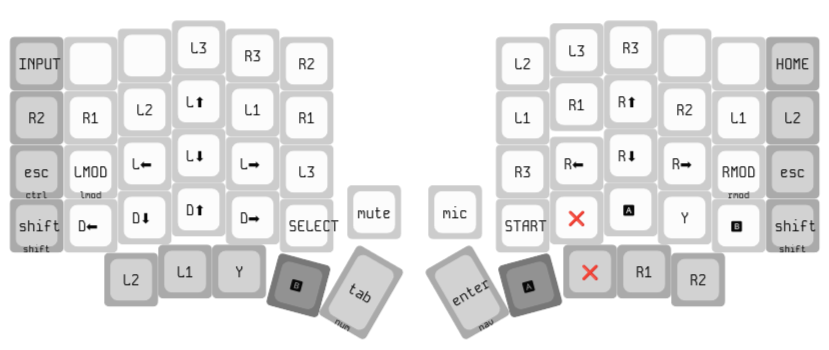
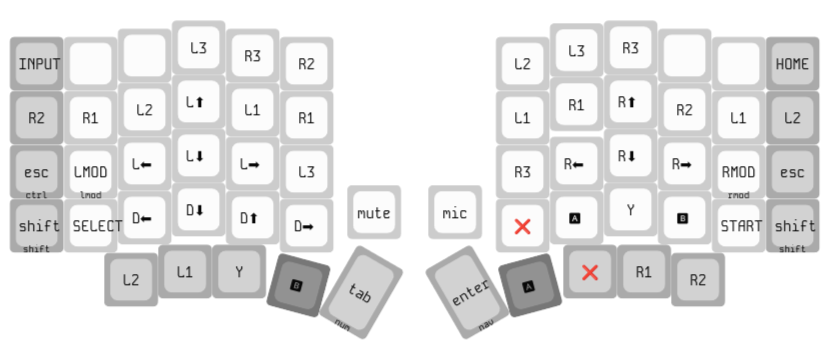
feat: trying a new layout

diff --git a/keymap.c b/keymap.c
@@ -82,7 +82,7 @@ const uint16_t PROGMEM keymaps[][MATRIX_ROWS][MATRIX_COLS] = {
   [_MEDIA] = LAYOUT(XXXXXXX, XXXXXXX, XXXXXXX, XXXXXXX, XXXXXXX, XXXXXXX, XXXXXXX, XXXXXXX, XXXXXXX, XXXXXXX, XXXXXXX, XXXXXXX, XXXXXXX, KC_MEDIA_REWIND, XXXXXXX, XXXXXXX, XXXXXXX, XXXXXXX, XXXXXXX, KC_MEDIA_NEXT_TRACK, XXXXXXX, XXXXXXX, XXXXXXX, XXXXXXX, BASE, XXXXXXX, XXXXXXX, XXXXXXX, XXXXXXX, XXXXXXX, XXXXXXX, KC_MEDIA_PREV_TRACK, XXXXXXX, KC_MEDIA_STOP, KC_MEDIA_NEXT_TRACK, XXXXXXX, LSFT_T(PG_LOCK), XXXXXXX, XXXXXXX, KC_VOLD, KC_VOLU, XXXXXXX, _______, _______, XXXXXXX, XXXXXXX, KC_MUTE, KC_MEDIA_FAST_FORWARD, KC_MEDIA_PREV_TRACK, RSFT_T(PG_LOCK), XXXXXXX, _______, _______, _______, _______, _______, KC_MEDIA_PLAY_PAUSE, _______, _______, XXXXXXX),
   [_SYS] = LAYOUT(XXXXXXX, XXXXXXX, XXXXXXX, XXXXXXX, XXXXXXX, XXXXXXX, XXXXXXX, XXXXXXX, XXXXXXX, XXXXXXX, XXXXXXX, XXXXXXX, XXXXXXX, XXXXXXX, KC_PSCR, XXXXXXX, XXXXXXX, XXXXXXX, XXXXXXX, XXXXXXX, XXXXXXX, KC_WAKE, XXXXXXX, XXXXXXX, BASE, XXXXXXX, XXXXXXX, XXXXXXX, XXXXXXX, XXXXXXX, XXXXXXX, XXXXXXX, XXXXXXX, KC_SLEP, XXXXXXX, XXXXXXX, LSFT_T(PG_LOCK), XXXXXXX, XXXXXXX, KC_BRID, KC_BRIU, XXXXXXX, _______, _______, XXXXXXX, XXXXXXX, XXXXXXX, XXXXXXX, KC_PWR, RSFT_T(PG_LOCK), XXXXXXX, _______, _______, _______, _______, _______, _______, _______, _______, XXXXXXX),
   [_META] = LAYOUT(XXXXXXX, XXXXXXX, XXXXXXX, XXXXXXX, XXXXXXX, XXXXXXX, XXXXXXX, XXXXXXX, XXXXXXX, XXXXXXX, XXXXXXX, XXXXXXX, XXXXXXX, XXXXXXX, XXXXXXX, XXXXXXX, XXXXXXX, XXXXXXX, XXXXXXX, XXXXXXX, XXXXXXX, XXXXXXX, XXXXXXX, XXXXXXX, BASE, KC_CLEAR, XXXXXXX, QK_CLEAR_EEPROM, XXXXXXX, XXXXXXX, XXXXXXX, XXXXXXX, XXXXXXX, XXXXXXX, XXXXXXX, XXXXXXX, LSFT_T(PG_LOCK), XXXXXXX, XXXXXXX, XXXXXXX, XXXXXXX, XXXXXXX, _______, _______, XXXXXXX, QK_REBOOT, QK_MAKE, XXXXXXX, XXXXXXX, RSFT_T(PG_LOCK), XXXXXXX, _______, _______, _______, _______, _______, _______, _______, _______, XXXXXXX),
-  [_🎮PAD] = LAYOUT(JS_17, XXXXXXX, XXXXXXX, JS_L_LOCK, JS_13, JS_11, JS_9, JS_12, JS_13, XXXXXXX, XXXXXXX, JS_16, JS_11, JS_10, JS_9, JS_L_UP, JS_8, JS_10, JS_8, JS_10, JS_R_UP, JS_11, JS_8, JS_9, _______, JS_L_MOD, JS_L_LEFT, JS_L_DOWN, JS_L_RIGHT, JS_12, JS_13, JS_R_LEFT, JS_R_DOWN, JS_R_RIGHT, JS_R_MOD, KC_ESC, KC_LSFT, JS_0, JS_1, JS_2, JS_3, JS_15, _______, _______, JS_14, JS_6, JS_4, JS_7, JS_5, KC_RSFT, JS_9, JS_8, JS_7, JS_5, _______, _______, JS_4, JS_6, JS_10, JS_11),
+  [_🎮PAD] = LAYOUT(JS_17, XXXXXXX, XXXXXXX, JS_L_LOCK, JS_13, JS_11, JS_9, JS_12, JS_13, XXXXXXX, XXXXXXX, JS_16, JS_11, JS_10, JS_9, JS_L_UP, JS_8, JS_10, JS_8, JS_10, JS_R_UP, JS_11, JS_8, JS_9, _______, JS_L_MOD, JS_L_LEFT, JS_L_DOWN, JS_L_RIGHT, JS_12, JS_13, JS_R_LEFT, JS_R_DOWN, JS_R_RIGHT, JS_R_MOD, KC_ESC, KC_LSFT, JS_15, JS_0, JS_1, JS_2, JS_3, _______, _______, JS_6, JS_4, JS_7, JS_5, JS_14, KC_RSFT, JS_9, JS_8, JS_7, JS_5, _______, _______, JS_4, JS_6, JS_10, JS_11),
   [_ARROW] = LAYOUT(XXXXXXX, XXXXXXX, XXXXXXX, XXXXXXX, XXXXXXX, XXXXXXX, XXXXXXX, XXXXXXX, XXXXXXX, XXXXXXX, XXXXXXX, XXXXXXX, XXXXXXX, XXXXXXX, XXXXXXX, KC_UP, XXXXXXX, XXXXXXX, XXXXXXX, XXXXXXX, KC_UP, XXXXXXX, XXXXXXX, XXXXXXX, BASE, XXXXXXX, KC_LEFT, KC_DOWN, KC_RIGHT, XXXXXXX, XXXXXXX, KC_LEFT, KC_DOWN, KC_RIGHT, XXXXXXX, XXXXXXX, LSFT_T(PG_LOCK), XXXXXXX, XXXXXXX, XXXXXXX, XXXXXXX, XXXXXXX, _______, _______, XXXXXXX, XXXXXXX, XXXXXXX, XXXXXXX, XXXXXXX, RSFT_T(PG_LOCK), XXXXXXX, _______, _______, _______, _______, _______, _______, _______, _______, XXXXXXX),
   [_NUM] = LAYOUT(QK_LOCK, XXXXXXX, XXXXXXX, KC_LEFT_ANGLE_BRACKET, KC_RIGHT_ANGLE_BRACKET, KC_AMPERSAND, KC_SEMICOLON, XXXXXXX, XXXXXXX, KC_KP_EQUAL, KC_AT, KC_NUM, XXXXXXX, KC_EXCLAIM, KC_HASH, KC_LEFT_CURLY_BRACE, KC_RIGHT_CURLY_BRACE, KC_GRAVE, KC_COLON, KC_KP_7, KC_KP_8, KC_KP_9, KC_PERCENT, XXXXXXX, QK_CAPS_WORD_TOGGLE, KC_CIRCUMFLEX, KC_PIPE, KC_LEFT_PAREN, KC_RIGHT_PAREN, KC_DOLLAR, KC_KP_MINUS, KC_KP_4, KC_KP_5, KC_KP_6, KC_KP_PLUS, KC_UNDERSCORE, LSFT_T(PG_LOCK), KC_COLON, KC_EQUAL, KC_LEFT_BRACKET, KC_RIGHT_BRACKET, KC_TILDE, _______, _______, KC_KP_ASTERISK, KC_KP_1, KC_KP_2, KC_KP_3, KC_KP_SLASH, RSFT_T(PG_LOCK), QK_BOOT, _______, _______, _______, _______, LT(_NAV, BASE), KC_RSPC, KC_KP_0, KC_KP_DOT, KC_COMMA),
   [_NAV] = LAYOUT(KC_MS_ACCEL0, KC_MS_ACCEL1, KC_MS_ACCEL2, KC_BTN3, XXXXXXX, XXXXXXX, XXXXXXX, KC_MQL, KC_BTN3, KC_MQR, XXXXXXX, KC_MENU, XXXXXXX, KC_MS_WH_LEFT, KC_BTN2, KC_MS_UP, KC_BTN1, KC_MS_WH_RIGHT, XXXXXXX, KC_BTN1, KC_UP, KC_BTN2, XXXXXXX, KC_PGUP, _______, KC_BTN1, KC_MS_LEFT, KC_MS_DOWN, KC_MS_RIGHT, KC_BTN1, KC_HOME, KC_LEFT, KC_DOWN, KC_RIGHT, KC_END, KC_PGDN, LSFT_T(PG_LOCK), KC_BTN2, _______, KC_MS_WH_DOWN, KC_MS_WH_UP, KC_BTN2, _______, _______, XXXXXXX, PG_SEL, KC_UNDO, KC_AGAIN, XXXXXXX, RSFT_T(PG_LOCK), KC_BTN3, KC_BTN2, KC_BTN1, KC_DEL, LT(_NUM, BASE), _______, _______, _______, _______, XXXXXXX),
